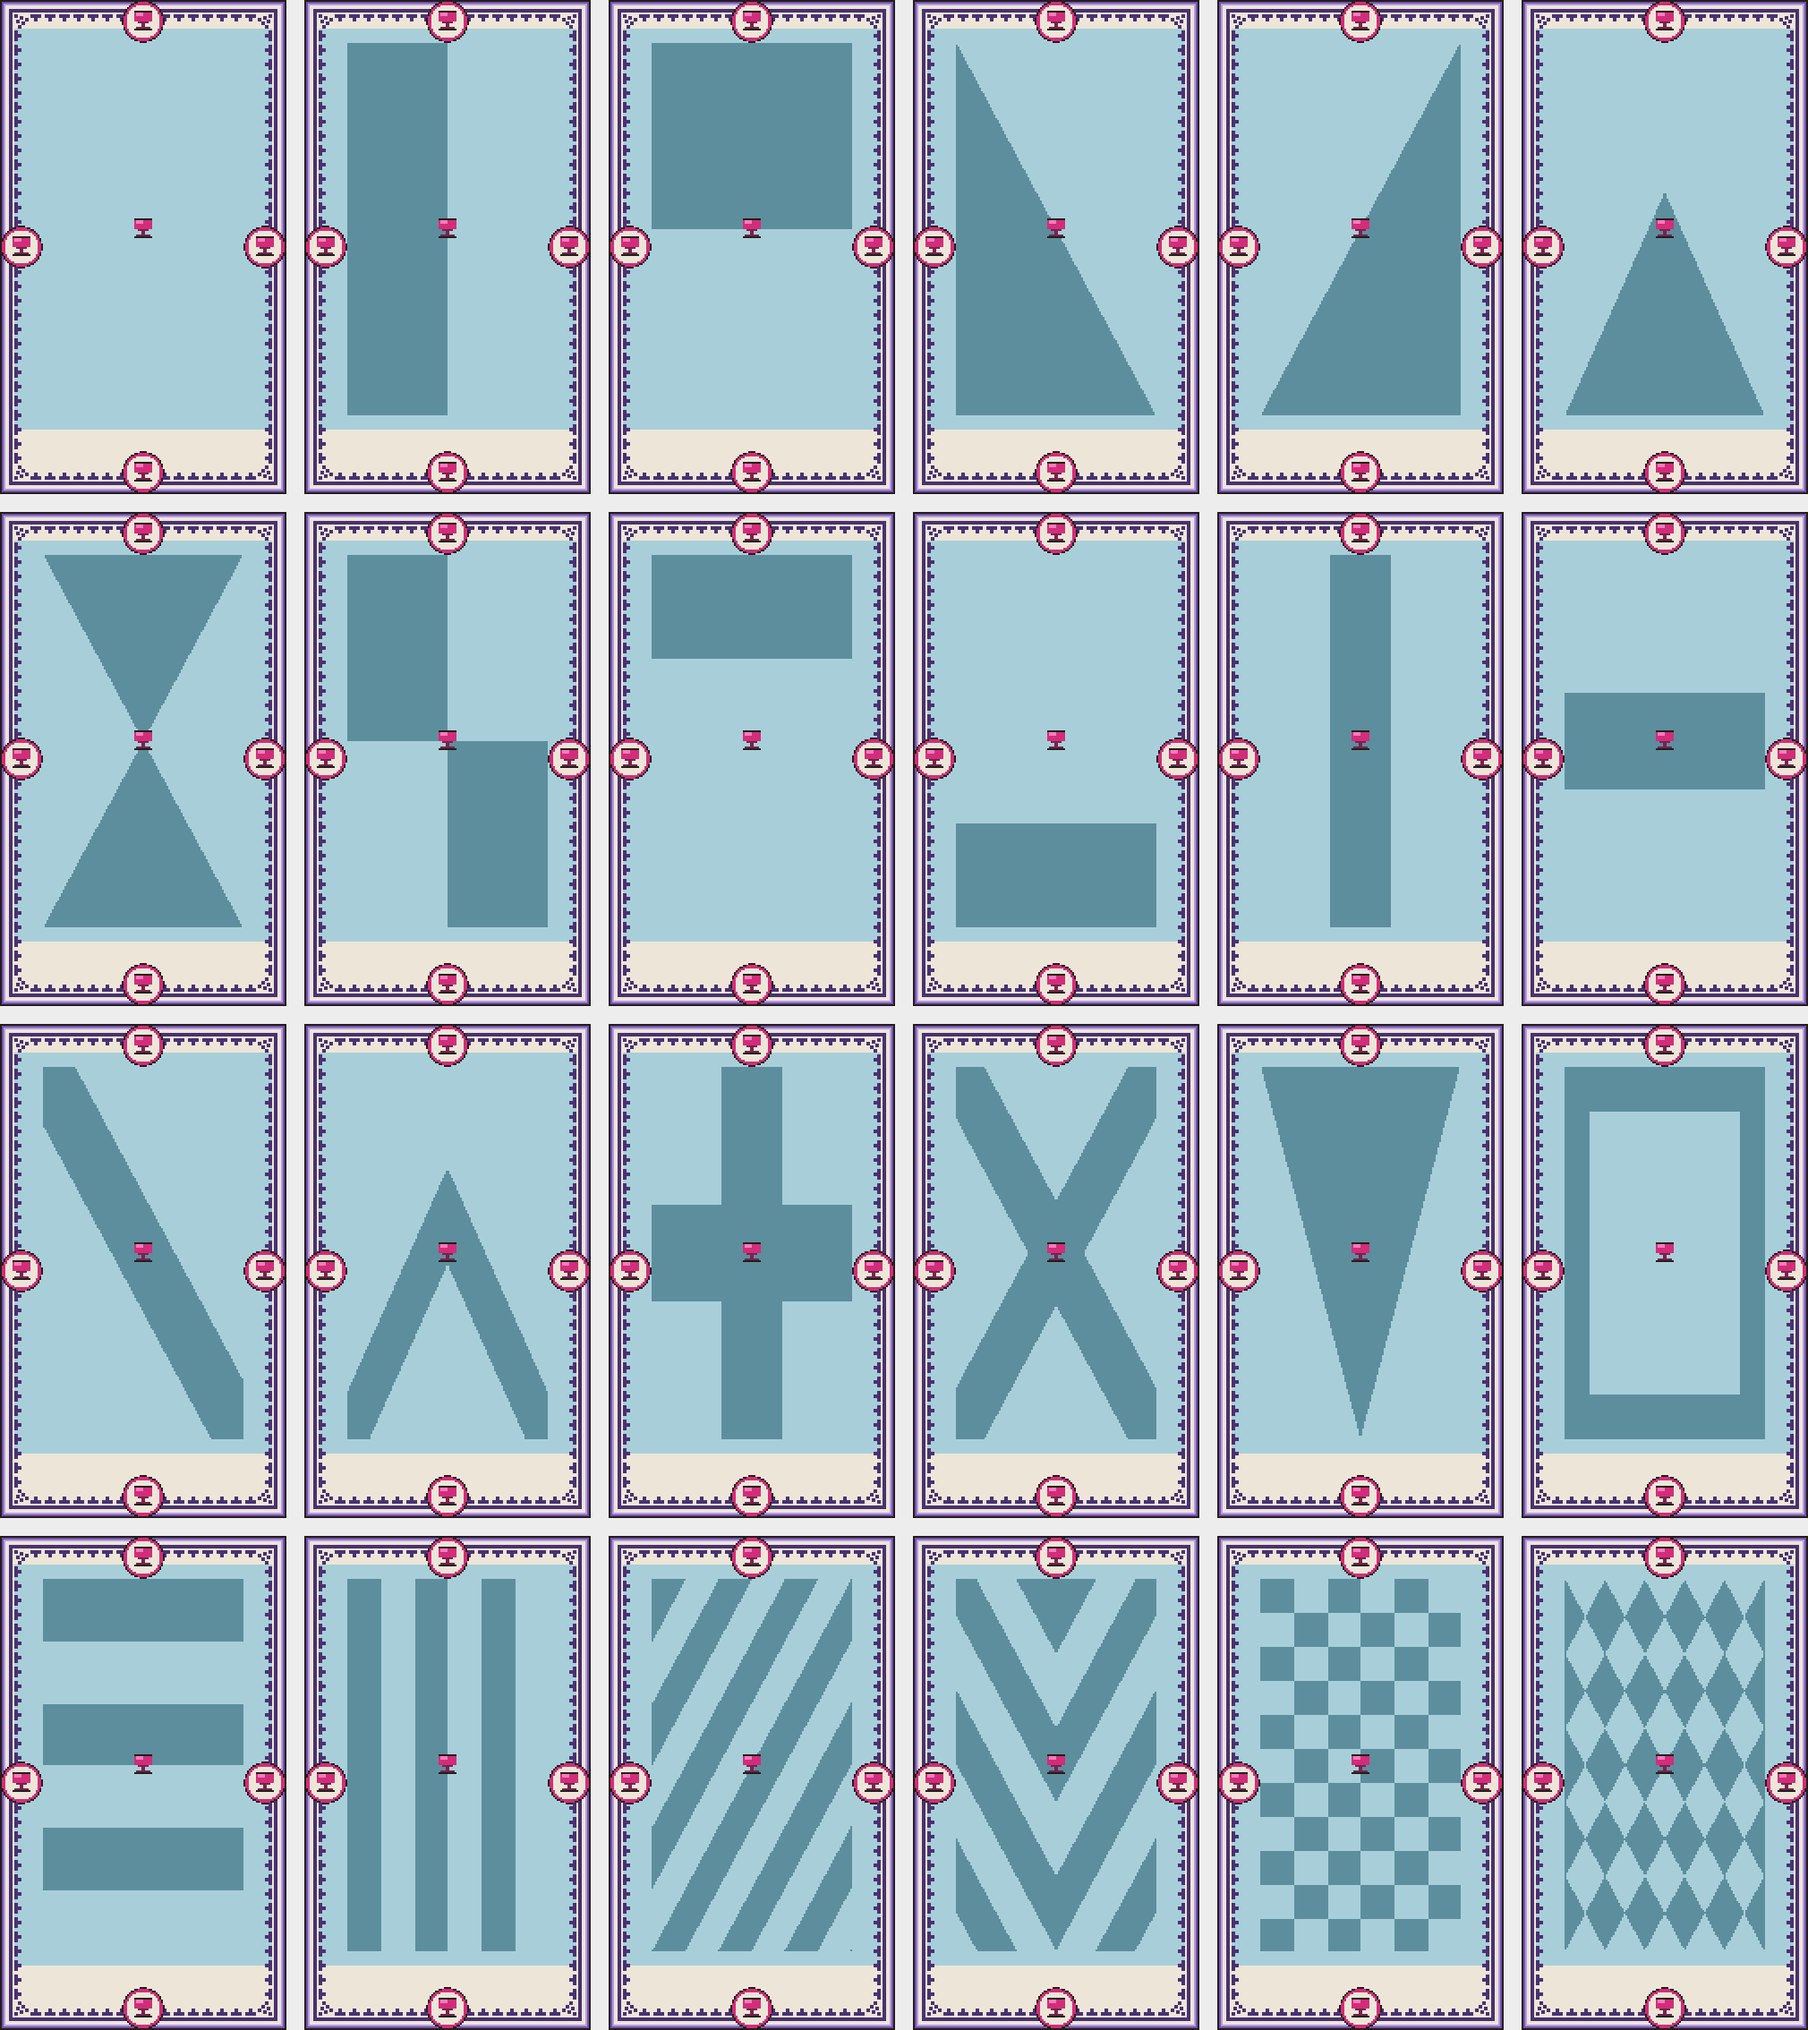
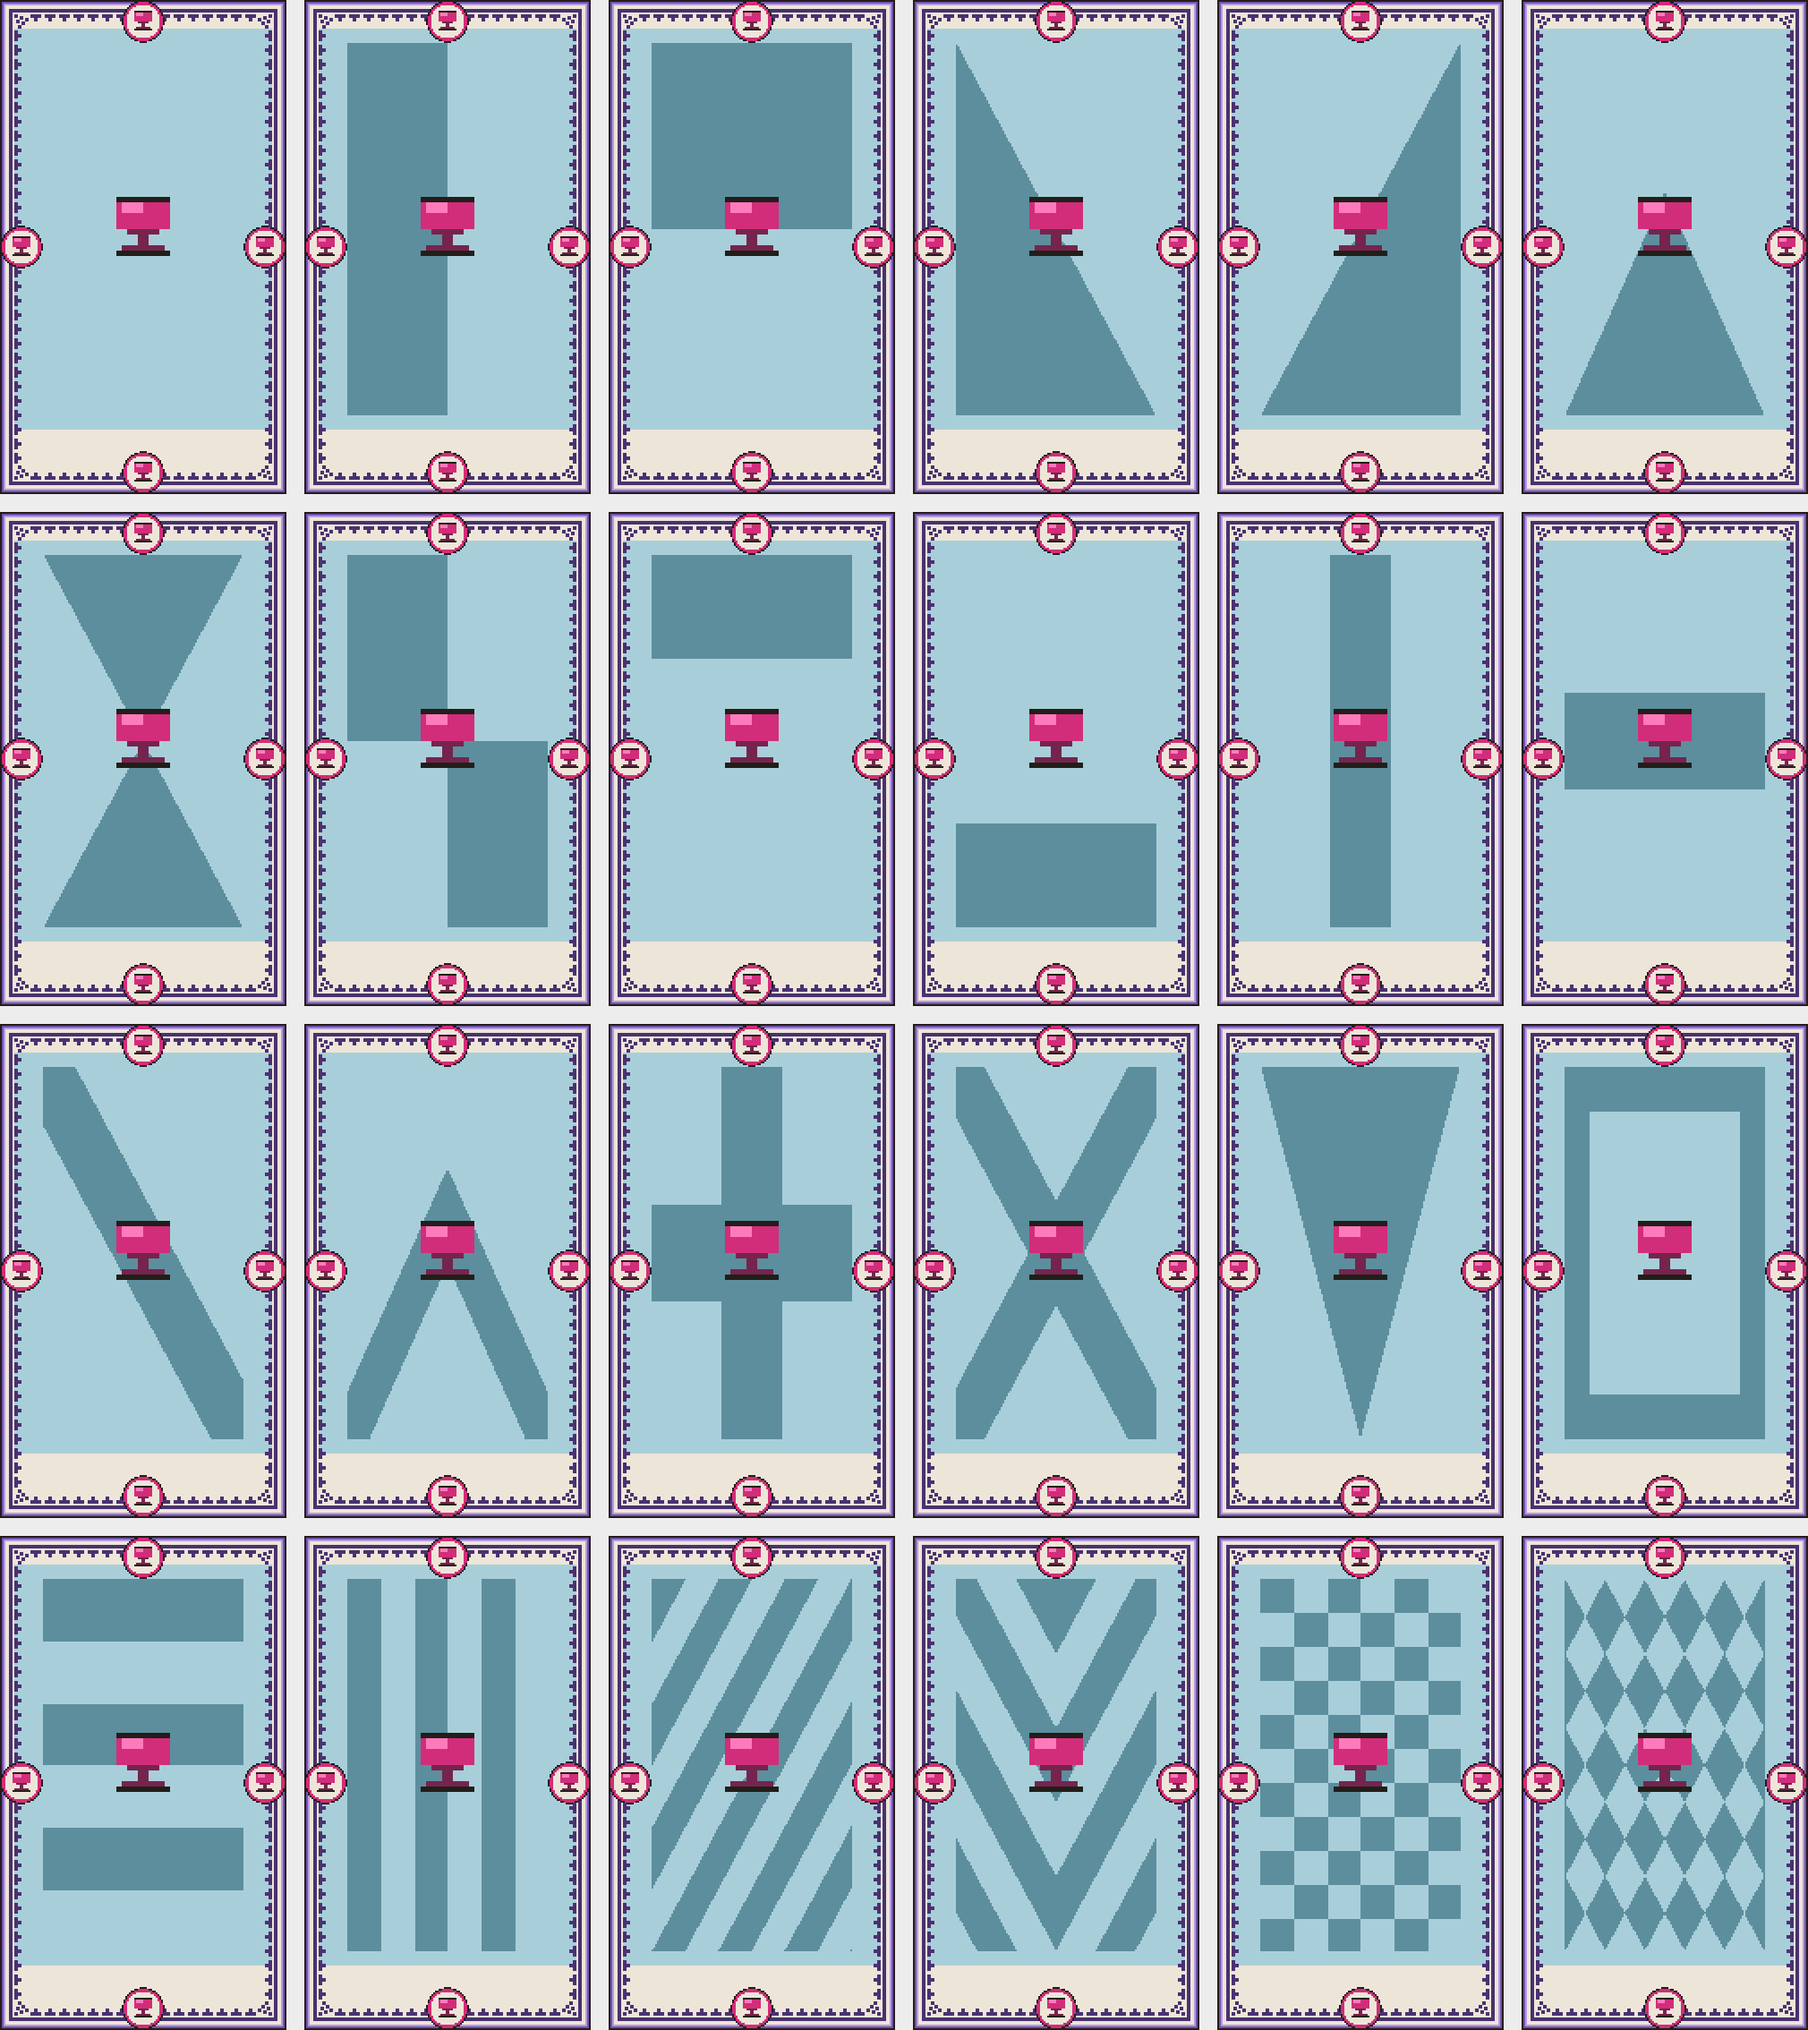
Enlarge and centre minor-arcana pips (auto-fit sizing)
The pips were small and hugged the card edges. Two changes:

- layout.py: a count-adaptive SPREAD contraction in place() pulls arrangements
  toward the centre — tight and central for few pips (0.50), spreading out for
  a full ten (0.75) so enlarged pips don't overlap. Pure scaling of the
  normalised coords, so bilateral symmetry and in-bounds centres are preserved.
- compose.py: pips are upscaled by an integer factor auto-fit per card —
  _pip_scale() takes the largest factor whose square clears its nearest
  neighbour (min Chebyshev separation), clamped to [2x, 3x]. Because the
  centres come from place(layout, count), size depends jointly on the
  arrangement AND the rank: low ranks render at 3x (48px) and centred, high
  ranks at 2x (32px) and spread. Integer-only keeps the pixel grid crisp; the
  cartouche medallion pip is unchanged (stays 16px to fit the band).

Adds a _pip_scale test and refreshes the docs/examples sheets. 467 passing.

Claude-Session: https://claude.ai/code/session_01JGSWcdF7V5saxhDbYBxxkE

diff --git a/src/arcana/compose.py b/src/arcana/compose.py
@@ -151,6 +151,27 @@ def render_border(p: Palette, geo: Geometry, corner: Element, edge: Element,
     return out
 
 
+# Pip size (integer multiples of the 16px motif tile) is auto-fit per card: the
+# largest factor whose square doesn't overlap its neighbour. Depends jointly on
+# the arrangement and the count, since both set the centre spacing.
+PIP_BASE = 16
+PIP_MIN_SCALE = 2
+PIP_MAX_SCALE = 3
+
+
+def _pip_scale(centres: list[tuple[int, int]]) -> int:
+    """Largest integer pip factor that fits `centres` without overlap. Uses the
+    minimum Chebyshev separation — axis-aligned squares of side `s` overlap iff
+    both |dx| < s and |dy| < s — clamped to [PIP_MIN_SCALE, PIP_MAX_SCALE]. A
+    lone pip (no neighbour) gets the max."""
+    if len(centres) <= 1:
+        return PIP_MAX_SCALE
+    sep = min(max(abs(ax - bx), abs(ay - by))
+              for i, (ax, ay) in enumerate(centres)
+              for (bx, by) in centres[i + 1:])
+    return max(PIP_MIN_SCALE, min(PIP_MAX_SCALE, sep // PIP_BASE))
+
+
 def build_pip_card(palette: Palette, geo: Geometry, els: dict[str, Element],
                    count: int, layout_name: str, pip_key: str,
                    field_design: str = "plain") -> np.ndarray:
@@ -166,9 +187,13 @@ def build_pip_card(palette: Palette, geo: Geometry, els: dict[str, Element],
     field = build_field(field_design, geo)
     paste(card, palette.bind(field, "field"), ox, oy)
 
-    pips = palette.bind(els[pip_key].layers["motif"], "motif")
-    for cx, cy in place(layout_name, count, geo):
-        paste_centered(card, pips, ox + cx, oy + cy)
+    centres = place(layout_name, count, geo)
+    k = _pip_scale(centres)
+    pip = palette.bind(els[pip_key].layers["motif"], "motif")
+    if k > 1:
+        pip = np.repeat(np.repeat(pip, k, axis=0), k, axis=1)
+    for cx, cy in centres:
+        paste_centered(card, pip, ox + cx, oy + cy)
 
     med = mount(els[pip_key], els["cartouche"])
     border = render_border(palette, geo, els["corner"], els["edge"], med)

diff --git a/src/arcana/layout.py b/src/arcana/layout.py
@@ -26,6 +26,21 @@ LayoutFn = Callable[[int, Geometry], list[NPoint]]
 
 # Keep pip centres this far inside the art window so pips clear the frame band.
 PAD = 20
+# Contract every arrangement toward the centre (< 1) so pips cluster in the
+# middle rather than hugging the edges. Count-adaptive: few pips sit tight and
+# central (SPREAD_LOW); a full ten spreads out (SPREAD_HIGH) so it doesn't
+# overlap once the pips are enlarged. Pure scaling of the normalised coords, so
+# bilateral symmetry is preserved.
+SPREAD_LOW = 0.5      # 1-2 pips: most central
+SPREAD_HIGH = 0.75    # SPREAD_COUNT pips: most spread
+SPREAD_COUNT = 10
+
+
+def _spread(count: int) -> float:
+    if count <= 1:
+        return SPREAD_LOW
+    t = min(count - 1, SPREAD_COUNT - 1) / (SPREAD_COUNT - 1)
+    return SPREAD_LOW + (SPREAD_HIGH - SPREAD_LOW) * t
 
 _REGISTRY: dict[str, LayoutFn] = {}
 
@@ -48,7 +63,8 @@ def place(name: str, count: int, geo: Geometry) -> list[Point]:
     if count < 1:
         return []
     x0, y0 = geo.art_w / 2, geo.art_h / 2
-    hx, hy = x0 - PAD, y0 - PAD
+    s = _spread(count)
+    hx, hy = (x0 - PAD) * s, (y0 - PAD) * s
     return [(int(round(x0 + u * hx)), int(round(y0 + v * hy)))
             for u, v in _REGISTRY[name](count, geo)]
 

diff --git a/tests/test_deck.py b/tests/test_deck.py
@@ -167,6 +167,20 @@ def test_pip_card_is_suit_invariant(ctx):
         assert np.array_equal(base, other)
 
 
+def test_pip_scale_auto_fit(ctx):
+    """Pip size is auto-fit from centre spacing: within [MIN, MAX] for every
+    arrangement × count, MAX for a lone pip, and never larger for a crowded ten
+    than a lone ace."""
+    from arcana import layout
+    from arcana.compose import _pip_scale, PIP_MIN_SCALE, PIP_MAX_SCALE
+    _, geo, _, _ = ctx
+    assert _pip_scale(layout.place("single", 1, geo)) == PIP_MAX_SCALE
+    for name in layout.names():
+        for n in range(1, 11):
+            assert PIP_MIN_SCALE <= _pip_scale(layout.place(name, n, geo)) <= PIP_MAX_SCALE
+    assert _pip_scale(layout.place("pile", 10, geo)) <= _pip_scale(layout.place("single", 1, geo))
+
+
 def test_pip_card_field_design_applied(ctx):
     """The field design is an independent axis: a non-plain field changes the
     background matrix without touching the pips or frame."""
